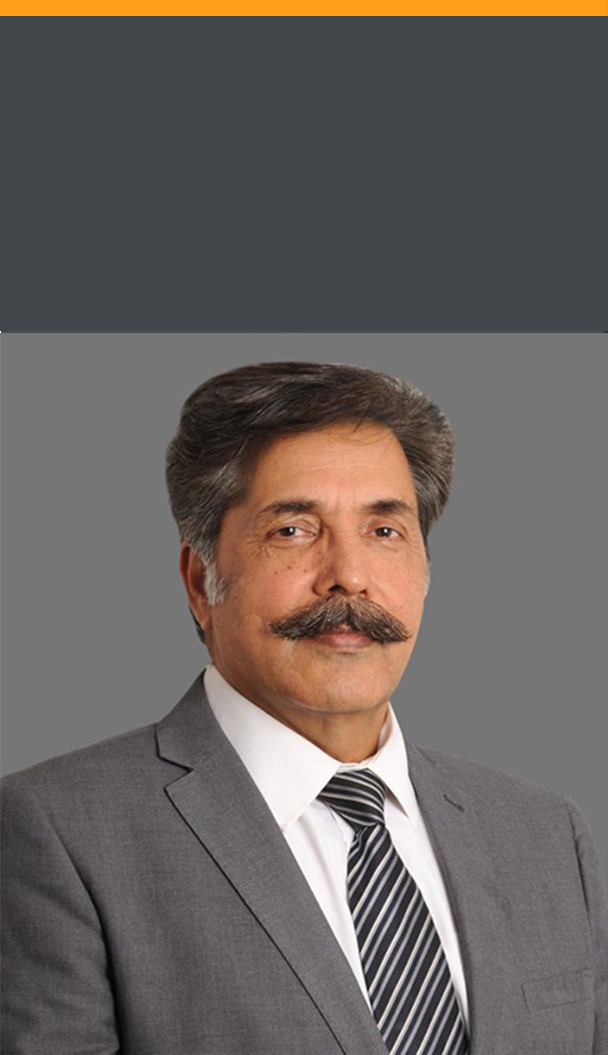
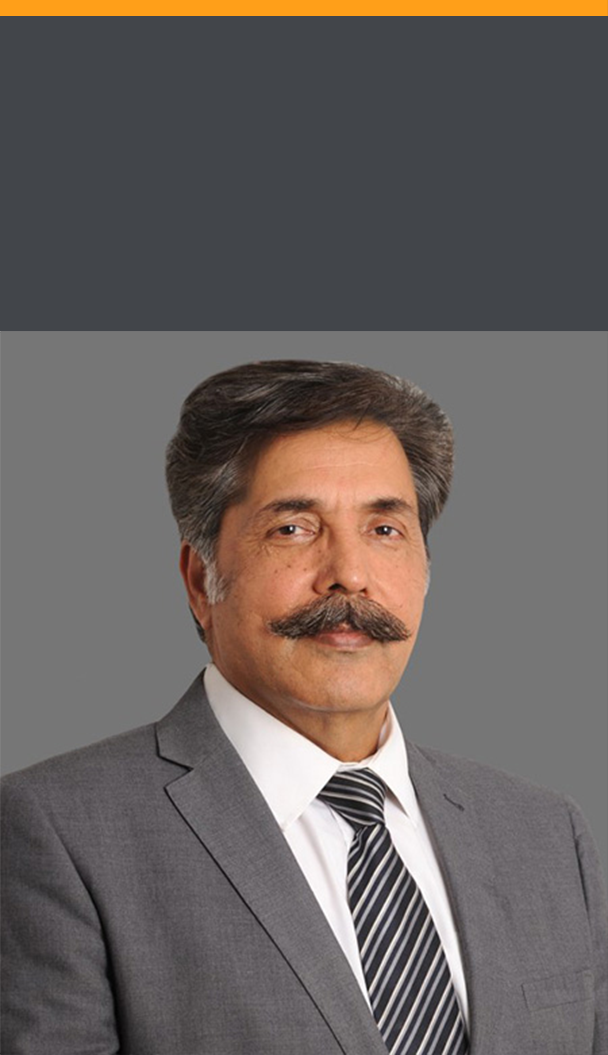
Dr faroow Azam Image changed

diff --git a/css/style.css b/css/style.css
@@ -5220,7 +5220,7 @@ button.gsc-search-button.gsc-search-button-v2:hover svg {
 
 .faculty_grid_left {
 
-    background: url(../images/about/faculty-farooq-e-azam2.png) no-repeat left center;
+    background: url(../images/about/faculty-farooq-e-azam2_new.png) no-repeat left center;
 
     background-size: cover;
 
@@ -5838,7 +5838,7 @@ button.gsc-search-button.gsc-search-button-v2:hover svg {
 
     .faculty_grid_left {
 
-        background: url(../images/about/faculty-farooq-e-azam_1024.png) no-repeat top center;
+        background: url(../images/about/faculty-farooq-e-azam_1024_new.png) no-repeat top center;
 
         background-size: cover;
 
@@ -6023,7 +6023,7 @@ button.gsc-search-button.gsc-search-button-v2:hover svg {
 
     .faculty_grid_left {
 
-        background: url(../images/about/faculty-farooq-e-azam_1024.png) no-repeat top center;
+        background: url(../images/about/faculty-farooq-e-azam_1024_new.png) no-repeat top center;
 
         background-size: cover;
 
@@ -6426,7 +6426,7 @@ button.gsc-search-button.gsc-search-button-v2:hover svg {
 
     .faculty_grid_left {
 
-        background: url(../images/about/faculty-farooq-e-azam-mobile.png) no-repeat left center;
+        background: url(../images/about/faculty-farooq-e-azam-mobile_new.png) no-repeat left center;
 
         background-size: cover;
 
@@ -6605,7 +6605,7 @@ button.gsc-search-button.gsc-search-button-v2:hover svg {
 
     .faculty_grid_left {
 
-        background: url(../images/about/faculty-farooq-e-azam-mobile.png) no-repeat left center;
+        background: url(../images/about/faculty-farooq-e-azam-mobile_new.png) no-repeat left center;
 
         background-size: cover;
 
